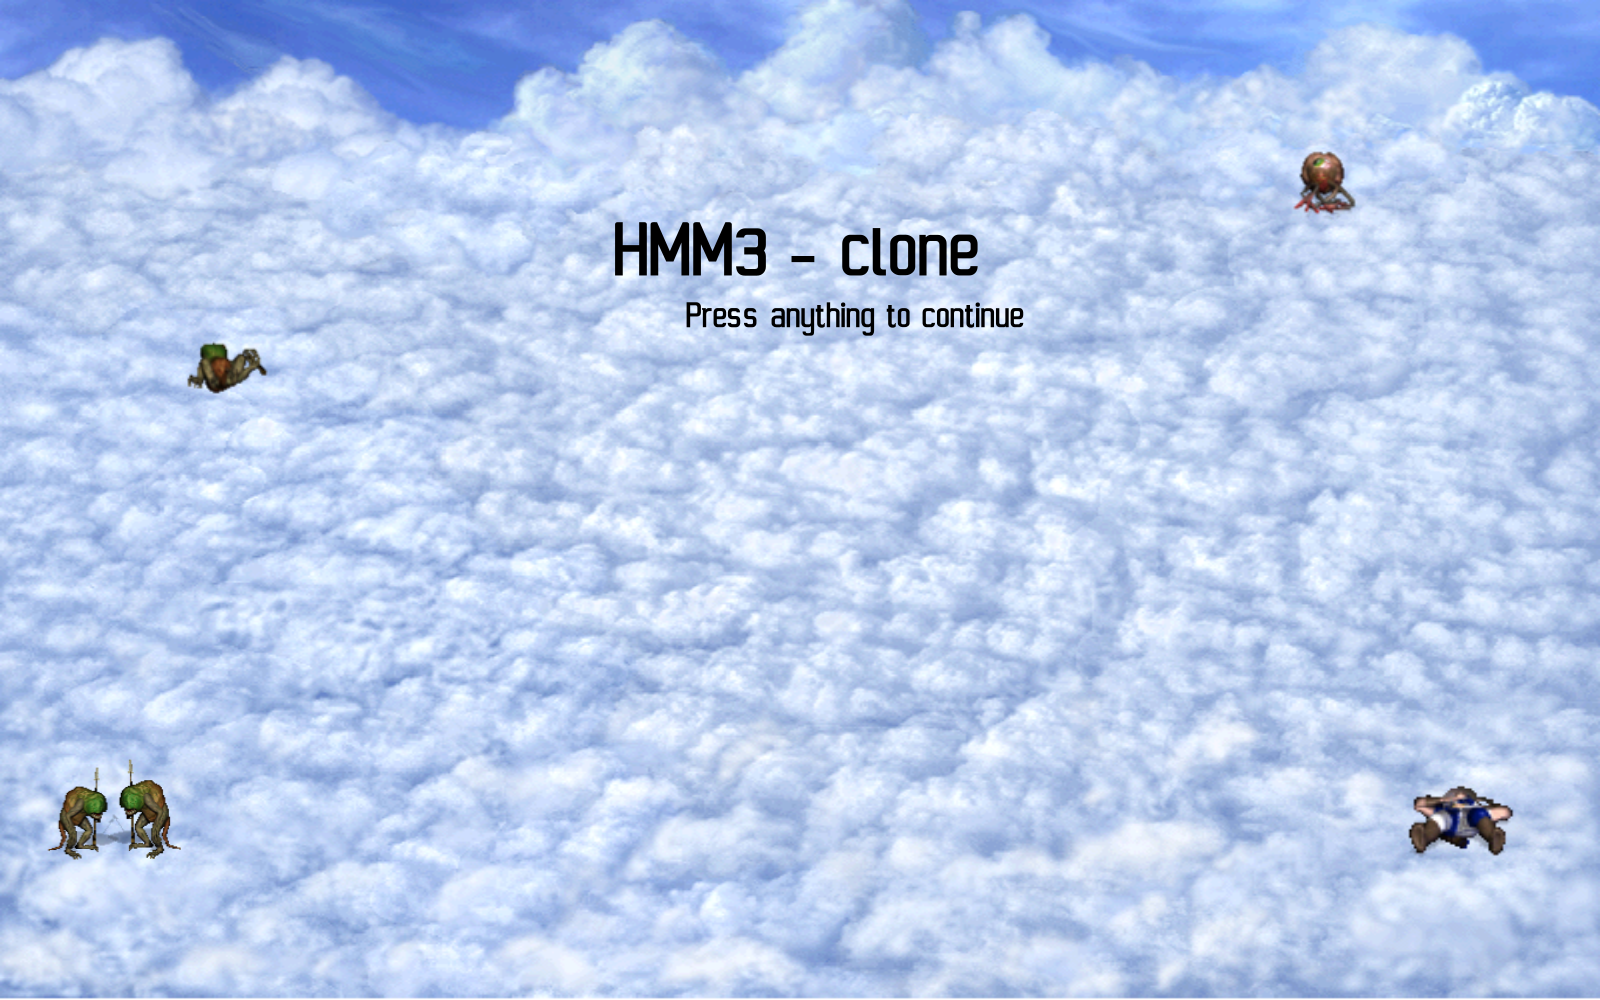
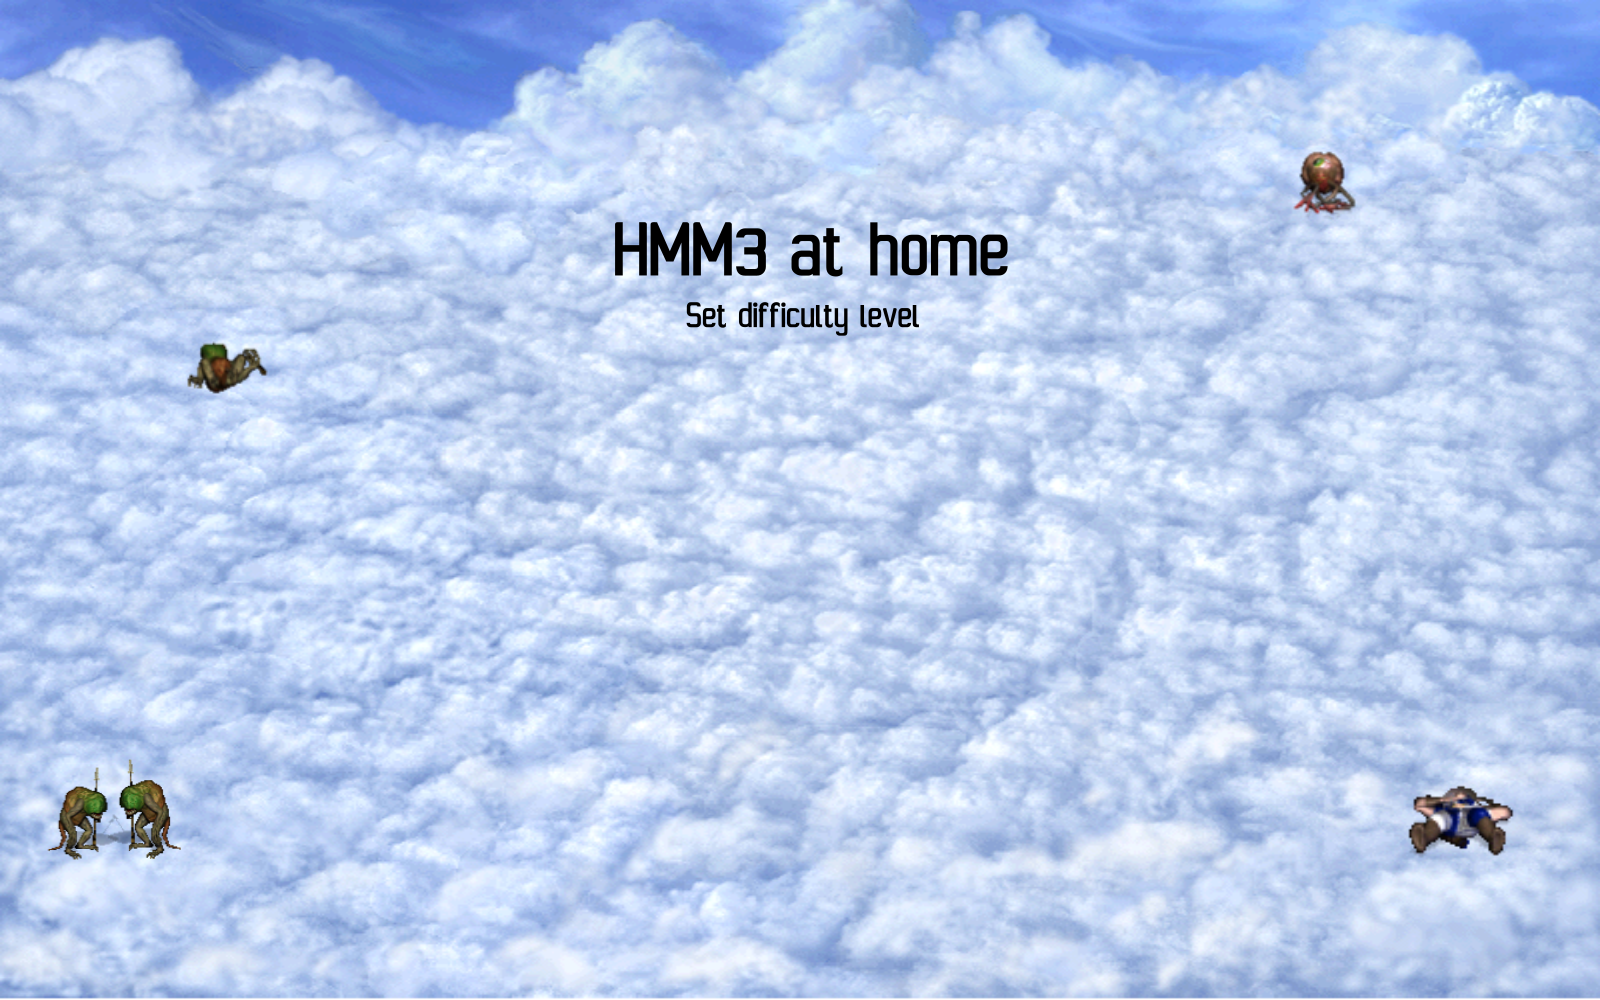
diffrent difficulties and random enemies added

Changed region(s): [[0.5, 0.217, 0.625, 0.279], [0.4375, 0.279, 0.6562, 0.341]]

diff --git a/src/BattlePanel.cc b/src/BattlePanel.cc
@@ -1,11 +1,13 @@
 #include "BattlePanel.h"
 #include <array>
 #include <fstream>
+#include <memory>
 #include <string>
 #include "AlivePlayer.h"
 #include "Battle.h"
 #include "HeroResources.h"
 #include "Label.h"
+#include "MainPanel.h"
 #include "Soldier.h"
 #include "SoldierTypes.h"
 #include "Sprite.h"
@@ -13,8 +15,8 @@
 #include "imgui_impl_sdl2.h"
 #include "imgui_impl_sdlrenderer2.h"
 
-constexpr int GRID_WIDTH = 50;
-constexpr int GRID_HEIGHT = 50;
+constexpr int GRID_W = 50;
+constexpr int GRID_H = 50;
 constexpr int GRID_X = 100;
 constexpr int GRID_Y = 50;
 constexpr int GRID_PANEL_WIDTH = 100;
@@ -34,8 +36,8 @@ BattlePanel::BattlePanel(const Renderer &renderer)
       if_soldier_info_(false),
       battle_(true),
       button_(renderer_, 134, 86) {
-    button_.setPos(GRID_X * 2 + GRID_WIDTH * COLS + 20,
-                   GRID_Y + GRID_HEIGHT * (ROWS - 2));
+    button_.setPos(GRID_X * 2 + GRID_W * COLS + 20,
+                   GRID_Y + GRID_H * (ROWS - 2));
     battle_.loadArmySprites();
     loadBattleSprites();
 }
@@ -55,13 +57,13 @@ void BattlePanel::draw() {
 
     for (int i = 0; i < COLS; ++i) {
         for (int j = 0; j < ROWS; ++j) {
-            renderer_.drawSprite(GRID_X + i * GRID_WIDTH,
-                                 GRID_Y + j * GRID_HEIGHT, *emptyFieldSprite_);
+            renderer_.drawSprite(GRID_X + i * GRID_W, GRID_Y + j * GRID_H,
+                                 *emptyFieldSprite_);
         }
     }
     if (clicked_col_ < COLS && clicked_row_ < ROWS) {
-        renderer_.drawSprite(GRID_X + clicked_col_ * GRID_WIDTH,
-                             GRID_Y + clicked_row_ * GRID_HEIGHT,
+        renderer_.drawSprite(GRID_X + clicked_col_ * GRID_W,
+                             GRID_Y + clicked_row_ * GRID_H,
                              *selectedFieldSprite_);
     }
 
@@ -89,36 +91,34 @@ void BattlePanel::draw() {
     for (auto &i : battle_.getHeroArmy()) {
         if (i->isAlive()) {
             renderer_.drawSprite(
-                GRID_X + i->getX() * GRID_WIDTH,
-                GRID_Y + i->getY() * GRID_HEIGHT - i->rightSprite_->height_ / 2,
+                GRID_X + i->getX() * GRID_W,
+                GRID_Y + i->getY() * GRID_H - i->rightSprite_->height_ / 2,
                 *i->rightSprite_);
             renderer_.drawImage(
-                GRID_X + i->getX() * GRID_WIDTH + 2,
-                GRID_Y + i->getY() * GRID_HEIGHT,
+                GRID_X + i->getX() * GRID_W + 2, GRID_Y + i->getY() * GRID_H,
                 renderer_.createTextImage(std::to_string(i->get_number()),
                                           {255, 255, 255}));
         } else {
             renderer_.drawSprite(
-                GRID_X + i->getX() * GRID_WIDTH,
-                GRID_Y + i->getY() * GRID_HEIGHT - i->deadSprite_->height_ / 2,
+                GRID_X + i->getX() * GRID_W,
+                GRID_Y + i->getY() * GRID_H - i->deadSprite_->height_ / 2,
                 *i->deadSprite_);
         }
     }
     for (auto &i : battle_.getEnemyArmy()) {
         if (i->isAlive()) {
             renderer_.drawSprite(
-                GRID_X + i->getX() * GRID_WIDTH - 5,
-                GRID_Y + i->getY() * GRID_HEIGHT - i->leftSprite_->height_ / 2,
+                GRID_X + i->getX() * GRID_W - 5,
+                GRID_Y + i->getY() * GRID_H - i->leftSprite_->height_ / 2,
                 *i->leftSprite_);
             renderer_.drawImage(
-                GRID_X + i->getX() * GRID_WIDTH + 40,
-                GRID_Y + i->getY() * GRID_HEIGHT,
+                GRID_X + i->getX() * GRID_W + 40, GRID_Y + i->getY() * GRID_H,
                 renderer_.createTextImage(std::to_string(i->get_number()),
                                           {255, 255, 255}));
         } else {
             renderer_.drawSprite(
-                GRID_X + i->getX() * GRID_WIDTH,
-                GRID_Y + i->getY() * GRID_HEIGHT - i->deadSprite_->height_ / 2,
+                GRID_X + i->getX() * GRID_W,
+                GRID_Y + i->getY() * GRID_H - i->deadSprite_->height_ / 2,
                 *i->deadSprite_);
         }
     }
@@ -126,17 +126,16 @@ void BattlePanel::draw() {
 
 void BattlePanel::loadBattleSprites() {
     auto image = GameData::getImage("rectRed.png");
-    selectedFieldSprite_.reset(new Sprite(GRID_WIDTH, GRID_HEIGHT, image));
+    selectedFieldSprite_.reset(new Sprite(GRID_W, GRID_H, image));
     image = GameData::getImage("emptyField.png");
-    emptyFieldSprite_.reset(new Sprite(GRID_WIDTH, GRID_HEIGHT, image));
+    emptyFieldSprite_.reset(new Sprite(GRID_W, GRID_H, image));
     image = GameData::getImage("rectBlue.png");
-    blueFieldSprite_.reset(new Sprite(GRID_WIDTH, GRID_HEIGHT, image));
+    blueFieldSprite_.reset(new Sprite(GRID_W, GRID_H, image));
     image = GameData::getImage("rectWhite.png");
-    whiteFieldSprite_.reset(new Sprite(GRID_WIDTH, GRID_HEIGHT, image));
+    whiteFieldSprite_.reset(new Sprite(GRID_W, GRID_H, image));
     image = GameData::getImage("BattleGround.png");
-    battleGroundSprite_.reset(new Sprite(GRID_WIDTH * COLS + 2 * GRID_X,
-                                         GRID_HEIGHT * ROWS + 2 * GRID_Y,
-                                         image));
+    battleGroundSprite_.reset(new Sprite(GRID_W * COLS + 2 * GRID_X,
+                                         GRID_H * ROWS + 2 * GRID_Y, image));
     image = GameData::getImage("panel.png");
     panel_.reset(new Sprite(image->getWidth(), image->getHeight(), image));
     image = GameData::getImage("hLost.png");
@@ -156,10 +155,10 @@ bool BattlePanel::mouseButtonDown(int x, int y) {
         battle_.handleNextTurn();
         return true;
     }
-    if (x > GRID_X && x < GRID_X + GRID_WIDTH * COLS && y > GRID_Y &&
-        y < GRID_Y + GRID_HEIGHT * ROWS) {
-        auto clickedCol = (x - x_) / GRID_WIDTH;
-        auto clickedRow = (y - y_) / GRID_HEIGHT;
+    if (x > GRID_X && x < GRID_X + GRID_W * COLS && y > GRID_Y &&
+        y < GRID_Y + GRID_H * ROWS) {
+        auto clickedCol = (x - x_) / GRID_W;
+        auto clickedRow = (y - y_) / GRID_H;
         handleMapGridClick(clickedCol, clickedRow);
         return true;
     }
@@ -191,14 +190,14 @@ void BattlePanel::drawWalkingDistance(int x, int y, int distance) {
         for (int temp_y = y - distance; temp_y <= y + distance; ++temp_y) {
             if (temp_x >= 0 && temp_x < COLS && temp_y >= 0 && temp_y < ROWS) {
                 if (std::abs(temp_x - x) + std::abs(temp_y - y) <= distance) {
-                    renderer_.drawSprite(GRID_X + temp_x * GRID_WIDTH,
-                                         GRID_Y + temp_y * GRID_HEIGHT,
+                    renderer_.drawSprite(GRID_X + temp_x * GRID_W,
+                                         GRID_Y + temp_y * GRID_H,
                                          *blueFieldSprite_);
                 }
             }
         }
     }
-    renderer_.drawSprite(GRID_X + x * GRID_WIDTH, GRID_Y + y * GRID_HEIGHT,
+    renderer_.drawSprite(GRID_X + x * GRID_W, GRID_Y + y * GRID_H,
                          *whiteFieldSprite_);
 }
 

diff --git a/src/MainPanel.cc b/src/MainPanel.cc
@@ -1,5 +1,6 @@
 #include "MainPanel.h"
 #include <fstream>
+#include <random>
 #include "BattlePanel.h"
 #include "GameWindow.h"
 #include "HeroResources.h"
@@ -195,15 +196,32 @@ void MainPanel::handleMapGridMove(int mapCol, int mapRow) {
 void MainPanel::setBattle(int mapCol, int mapRow) {
     std::vector<UnitInfo> e_units;
 
-    switch (map_.gameMap().at(mapCol, mapRow).object_.type()) {
-        case MapObject::ENEMY:
-            int number = map_.gameMap().at(mapCol, mapRow).object_.value();
+    int monsterNr =
+        map_.gameMap().at(mapCol, mapRow).object_.value() + difficulty_;
 
-            e_units.push_back(UnitInfo(TROGLODYTE, number));
-            e_units.push_back(UnitInfo(TROGLODYTE, number));
-            e_units.push_back(UnitInfo(TROGLODYTE, number));
-            break;
+    std::random_device rd;
+    std::mt19937 gen(rd());
+
+    std::uniform_int_distribution<int> randomType(3, 5);
+    std::uniform_int_distribution<int> minotaurNum(1, 4);
+    std::uniform_int_distribution<int> troglodyteNum(8, 20);
+    std::uniform_int_distribution<int> beholderNum(4, 8);
+
+    for (int i = 0; i < monsterNr; ++i) {
+        ArmyBranch monsterType = static_cast<ArmyBranch>(randomType(gen));
+        switch (monsterType) {
+            case MINOTAUR:
+                e_units.push_back(UnitInfo(MINOTAUR, minotaurNum(gen)));
+                break;
+            case TROGLODYTE:
+                e_units.push_back(UnitInfo(TROGLODYTE, troglodyteNum(gen)));
+                break;
+            case BEHOLDER:
+                e_units.push_back(UnitInfo(BEHOLDER, beholderNum(gen)));
+                break;
+        }
     }
+
     auto battlePanelPtr = new BattlePanel(renderer_);
     battlePanelPtr->setArmies(playerHero_.hero().resources().getUnits(),
                               e_units);
@@ -243,4 +261,8 @@ void MainPanel::updateAndDrawLabels() {
     }
     unitInfoLabel_.updateText(unitInfoLabelText);
     unitInfoLabel_.draw();
+}
+
+void MainPanel::setDifficulty(Difficulty difficulty) {
+    difficulty_ = difficulty;
 }

diff --git a/src/StartPanel.cc b/src/StartPanel.cc
@@ -2,25 +2,53 @@
 #include "MainPanel.h"
 #include "UI.h"
 
-StartPanel::StartPanel(const Renderer &renderer) : renderer_(renderer) {
+StartPanel::StartPanel(const Renderer &renderer)
+    : renderer_(renderer),
+      easy_button_(renderer, 300, 100, easy),
+      normal_button_(renderer, 300, 100, normal),
+      hard_button_(renderer, 300, 100, hard) {
     auto image = GameData::getImage("startScreen.png");
     front_page_.reset(new Sprite(image->getWidth(), image->getHeight(), image));
+    easy_button_.setPos(650, 400);
+    normal_button_.setPos(650, 500);
+    hard_button_.setPos(650, 600);
 }
 
 void StartPanel::drawImGui() {}
 void StartPanel::step(){};
 bool StartPanel::keyDown(SDL_Keycode key, Uint16 mod, bool isNewPress) {
-    // Self-destruct and push MainPanel
-    auto ui = ui_;
-    ui->pop();
-    ui->push(new MainPanel(renderer_));
     return true;
 };
 bool StartPanel::mouseButtonDown(int x, int y) {
-    auto ui = ui_;
-    ui->pop();
-    ui->push(new MainPanel(renderer_));
-    return true;
+    if (easy_button_.handleIfClicked(x, y)) {
+        auto mainBattlePtr = new MainPanel(renderer_);
+        mainBattlePtr->setDifficulty(easy);
+        auto ui = ui_;
+        ui->pop();
+        ui->push(mainBattlePtr);
+        return true;
+    }
+    if (normal_button_.handleIfClicked(x, y)) {
+        auto mainBattlePtr = new MainPanel(renderer_);
+        mainBattlePtr->setDifficulty(normal);
+        auto ui = ui_;
+        ui->pop();
+        ui->push(mainBattlePtr);
+        return true;
+    }
+    if (hard_button_.handleIfClicked(x, y)) {
+        auto mainBattlePtr = new MainPanel(renderer_);
+        mainBattlePtr->setDifficulty(hard);
+        auto ui = ui_;
+        ui->pop();
+        ui->push(mainBattlePtr);
+        return true;
+    }
 };
 
-void StartPanel::draw() { renderer_.drawSprite(0, 0, *front_page_); };
+void StartPanel::draw() {
+    renderer_.drawSprite(0, 0, *front_page_);
+    easy_button_.draw();
+    normal_button_.draw();
+    hard_button_.draw();
+};

diff --git a/src/MainPanel.h b/src/MainPanel.h
@@ -1,6 +1,7 @@
 #pragma once
 #include "BuyUnitButton.h"
 #include "HeroExtrinsic.h"
+#include "HeroResources.h"
 #include "Label.h"
 #include "MapExtrinsic.h"
 #include "NextTurnButton.h"
@@ -10,6 +11,7 @@
 #include "UI.h"
 #include "imgui.h"
 
+enum Difficulty { easy, normal, hard };
 struct MainPanel : public Panel {
     const Renderer &renderer_;
     MainPanel(const Renderer &renderer);
@@ -18,8 +20,10 @@ struct MainPanel : public Panel {
     virtual void drawImGui();
     virtual bool keyDown(SDL_Keycode key, Uint16 mod, bool isNewPress) override;
     virtual bool mouseButtonDown(int x, int y) override;
+    void setDifficulty(Difficulty difficulty);
 
    private:
+    Difficulty difficulty_;
     MapExtrinsic map_;
     Label staminaResourceLabel_;
     Label goldResourceLabel_;

diff --git a/src/DifficultyButton.cc b/src/DifficultyButton.cc
@@ -1,0 +1,19 @@
+#include "DifficultyButton.h"
+
+DifficultyButton::DifficultyButton(const Renderer &renderer, int width,
+                                   int height, Difficulty difficulty)
+    : Button("Initial txt", renderer, width, height), difficulty_(difficulty) {
+    switch (difficulty_) {
+        case easy:
+            updateText("Easy");
+            break;
+        case normal:
+            updateText("Normal");
+            break;
+        case hard:
+            updateText("Hard");
+            break;
+    }
+}
+
+void DifficultyButton::handleClick() {}

diff --git a/src/StartPanel.h b/src/StartPanel.h
@@ -1,4 +1,5 @@
 #pragma once
+#include "DifficultyButton.h"
 #include "GameData.h"
 #include "Label.h"
 #include "Panel.h"
@@ -14,4 +15,8 @@ struct StartPanel : public Panel {
 
    private:
     SpriteUPtr front_page_;
+
+    DifficultyButton easy_button_;
+    DifficultyButton normal_button_;
+    DifficultyButton hard_button_;
 };

diff --git a/src/DifficultyButton.h b/src/DifficultyButton.h
@@ -1,0 +1,11 @@
+#pragma once
+#include "MainPanel.h"
+
+class DifficultyButton : public Button {
+    Difficulty difficulty_;
+
+   public:
+    DifficultyButton(const Renderer &renderer, int width, int height,
+                     Difficulty difficulty);
+    virtual void handleClick() override;
+};
